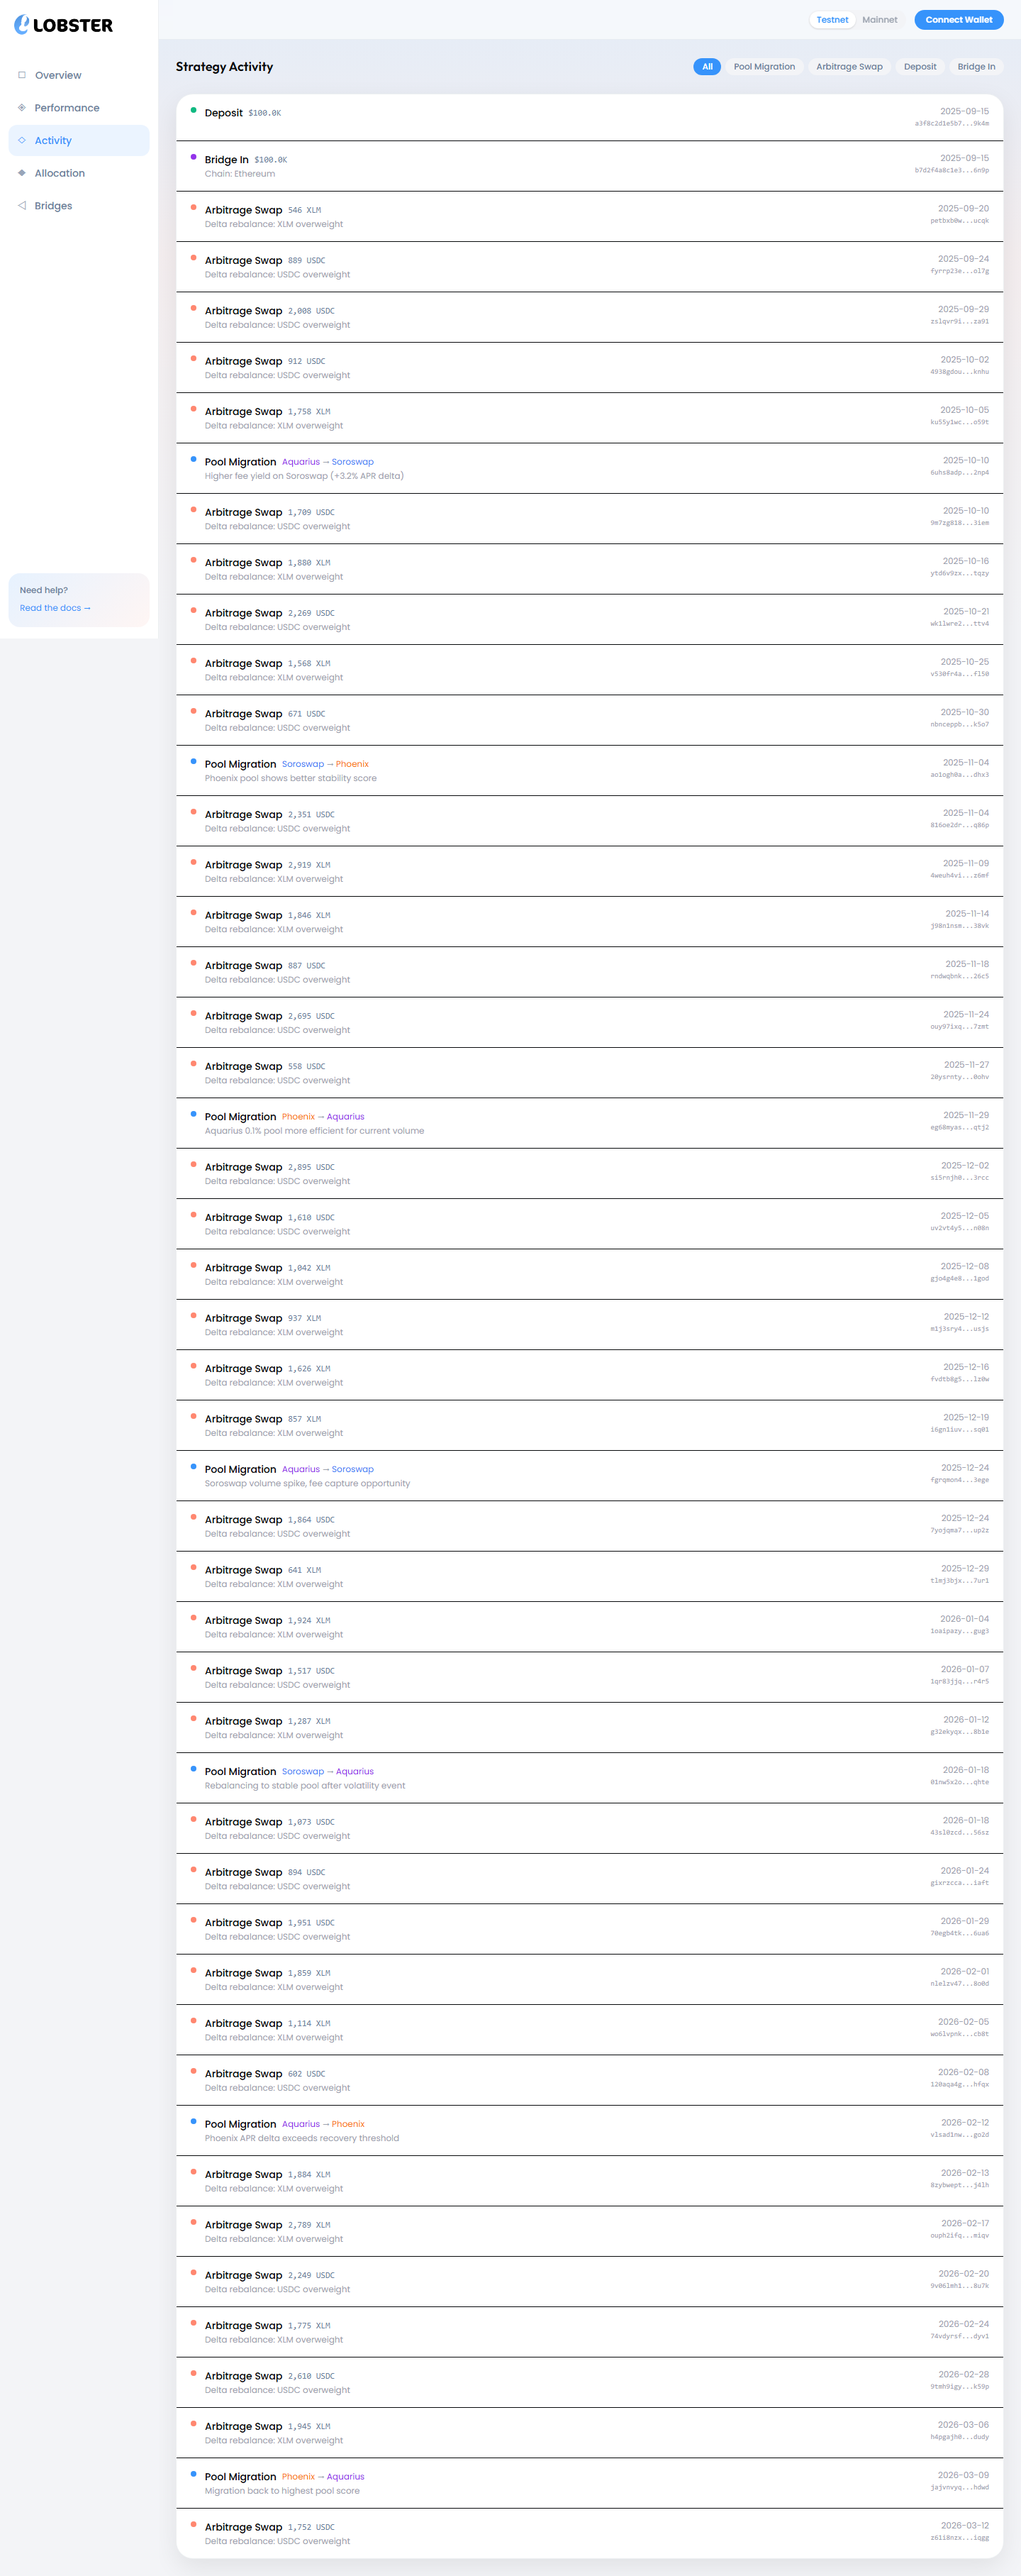
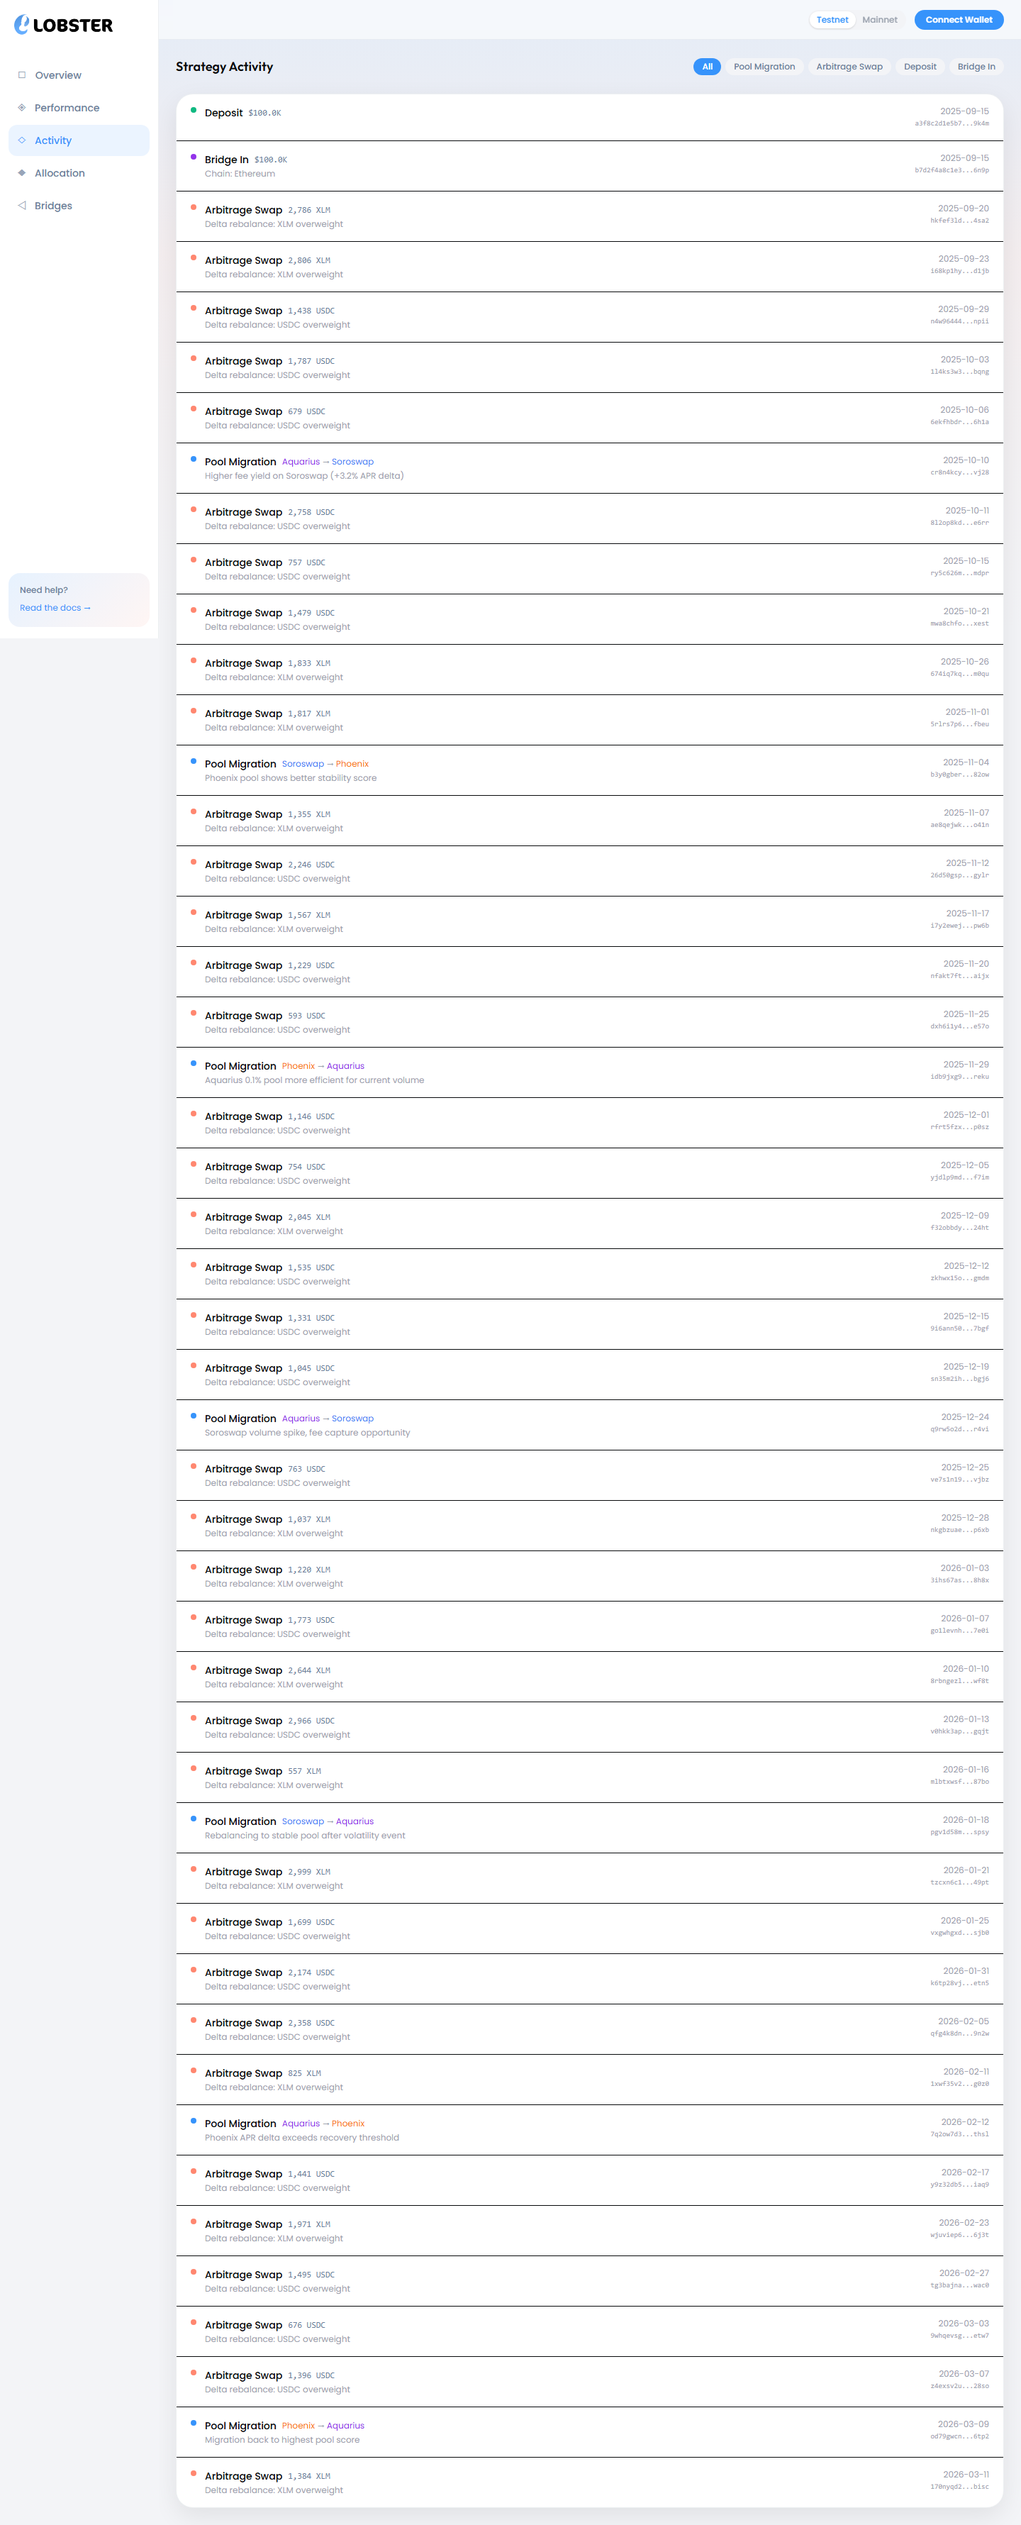
fix: use seeded PRNG so chart data is stable across page reloads

diff --git a/src/data/mock.ts b/src/data/mock.ts
@@ -62,20 +62,29 @@ export interface StrategyConfig {
   activePool: string
 }
 
-// --- generate PnL curve with realistic noise ---
+// deterministic pseudo-random so the charts don't jump on every refresh
+function seededRandom(seed: number) {
+  let s = seed
+  return () => {
+    s = (s * 16807 + 0) % 2147483647
+    return (s - 1) / 2147483646
+  }
+}
+
 function generatePnlCurve(days: number, finalPnlPercent: number): number[] {
+  const rand = seededRandom(42)
   const curve: number[] = [0]
   const dailyDrift = finalPnlPercent / days
   const volatility = 0.3
 
   for (let i = 1; i < days; i++) {
-    const noise = (Math.random() - 0.48) * volatility // slight upward bias
+    const noise = (rand() - 0.48) * volatility
     const prev = curve[i - 1]
     let next = prev + dailyDrift + noise
 
     // occasional small drawdowns
-    if (Math.random() < 0.08) {
-      next = prev - Math.random() * 0.4
+    if (rand() < 0.08) {
+      next = prev - rand() * 0.4
     }
     curve.push(next)
   }
@@ -90,10 +99,13 @@ const POOLS = [
   { name: 'XLM/USDC 0.1%', protocol: 'aquarius' as Protocol },
 ]
 
+const _pickRand = seededRandom(123)
 function pickPool(exclude?: string): typeof POOLS[0] {
   const available = exclude ? POOLS.filter(p => p.name + p.protocol !== exclude) : POOLS
-  return available[Math.floor(Math.random() * available.length)]
+  return available[Math.floor(_pickRand() * available.length)]
 }
+
+const _snapRand = seededRandom(777)
 
 // generate daily snapshots
 export function generateSnapshots(): DailySnapshot[] {
@@ -116,18 +128,18 @@ export function generateSnapshots(): DailySnapshot[] {
       currentPool = pickPool(currentPool.name + currentPool.protocol)
     }
 
-    const dailyFee = value * 0.0003 * (0.7 + Math.random() * 0.6) // ~0.03% daily fees
+    const dailyFee = value * 0.0003 * (0.7 + _snapRand() * 0.6) // ~0.03% daily fees
     cumulativeFees += dailyFee
-    const dailyIL = value * 0.00008 * Math.random()
+    const dailyIL = value * 0.00008 * _snapRand()
     cumulativeIL += dailyIL
 
     // token ratio oscillates around 50/50 with drift
-    const baseRatio = 50 + Math.sin(i / 20) * 5 + (Math.random() - 0.5) * 3
+    const baseRatio = 50 + Math.sin(i / 20) * 5 + (_snapRand() - 0.5) * 3
     const ratio = Math.max(35, Math.min(65, baseRatio))
 
     const token1Value = value * (ratio / 100) // USDC portion
     const token0Value = value - token1Value // XLM portion
-    const xlmPrice = 0.38 + Math.sin(i / 30) * 0.04 + (Math.random() - 0.5) * 0.02
+    const xlmPrice = 0.38 + Math.sin(i / 30) * 0.04 + (_snapRand() - 0.5) * 0.02
 
     return {
       date: date.toISOString().split('T')[0],
@@ -192,17 +204,17 @@ export function generateActivity(): ActivityEvent[] {
       toPool: `XLM/USDC 0.3%`,
       fromProtocol: fromP as Protocol,
       toProtocol: toP as Protocol,
-      txHash: `${Math.random().toString(36).slice(2, 10)}...${Math.random().toString(36).slice(2, 6)}`,
+      txHash: `${_snapRand().toString(36).slice(2, 10)}...${_snapRand().toString(36).slice(2, 6)}`,
       reason,
     })
   })
 
   // arbitrage swaps (roughly every 3-5 days)
-  for (let d = 5; d < 180; d += 3 + Math.floor(Math.random() * 4)) {
+  for (let d = 5; d < 180; d += 3 + Math.floor(_snapRand() * 4)) {
     const date = new Date(startDate)
     date.setDate(date.getDate() + d)
-    const isXlmToUsdc = Math.random() > 0.5
-    const amount = 500 + Math.floor(Math.random() * 2500)
+    const isXlmToUsdc = _snapRand() > 0.5
+    const amount = 500 + Math.floor(_snapRand() * 2500)
 
     events.push({
       id: `swap-${d}`,
@@ -210,7 +222,7 @@ export function generateActivity(): ActivityEvent[] {
       type: 'swap',
       amount,
       token: isXlmToUsdc ? 'XLM' : 'USDC',
-      txHash: `${Math.random().toString(36).slice(2, 10)}...${Math.random().toString(36).slice(2, 6)}`,
+      txHash: `${_snapRand().toString(36).slice(2, 10)}...${_snapRand().toString(36).slice(2, 6)}`,
       reason: isXlmToUsdc ? 'Delta rebalance: XLM overweight' : 'Delta rebalance: USDC overweight',
     })
   }
